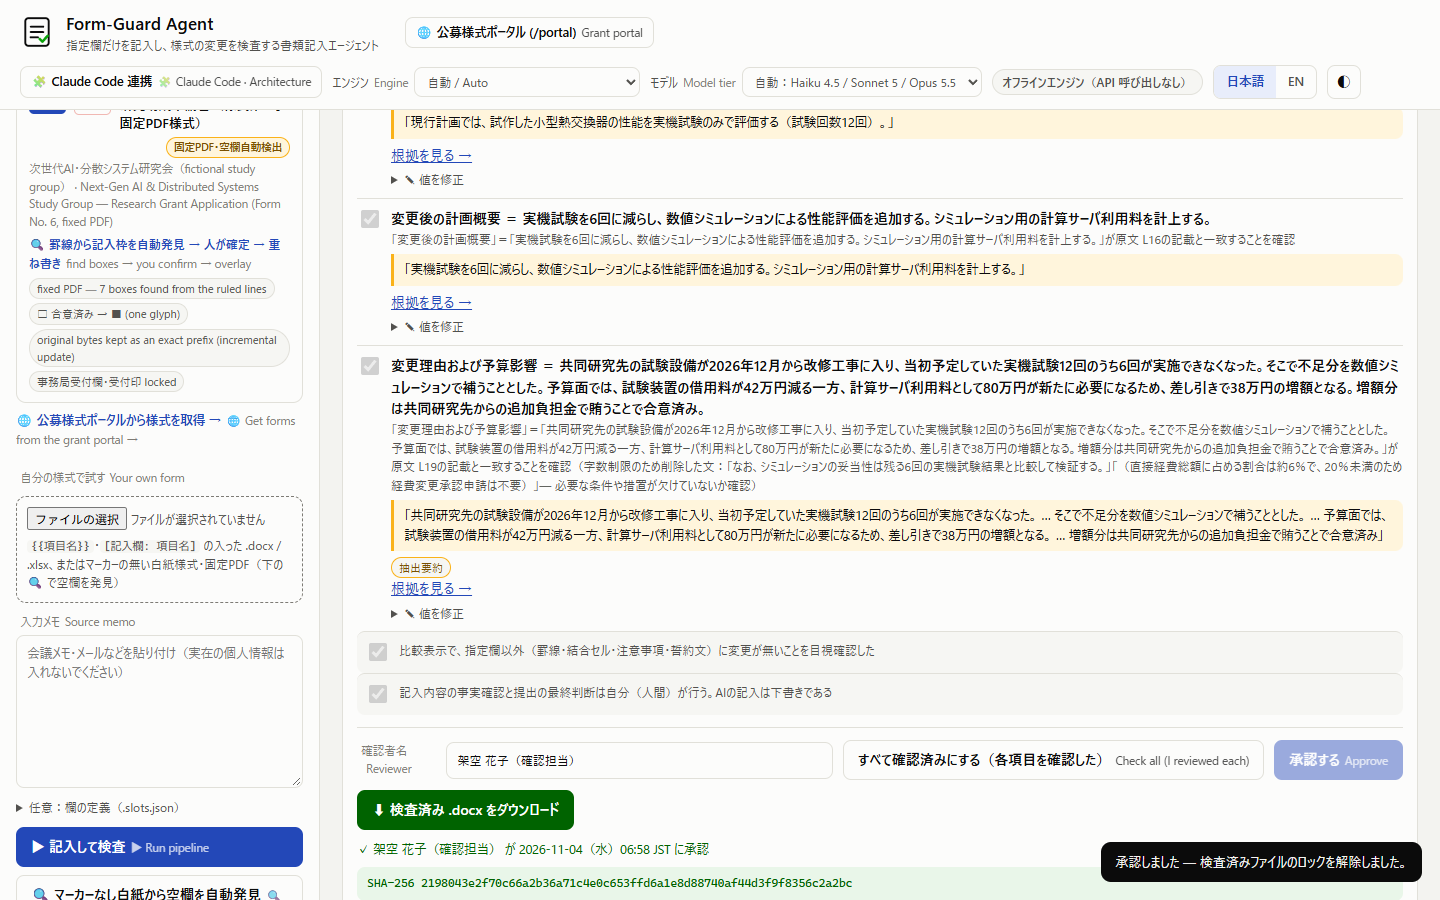
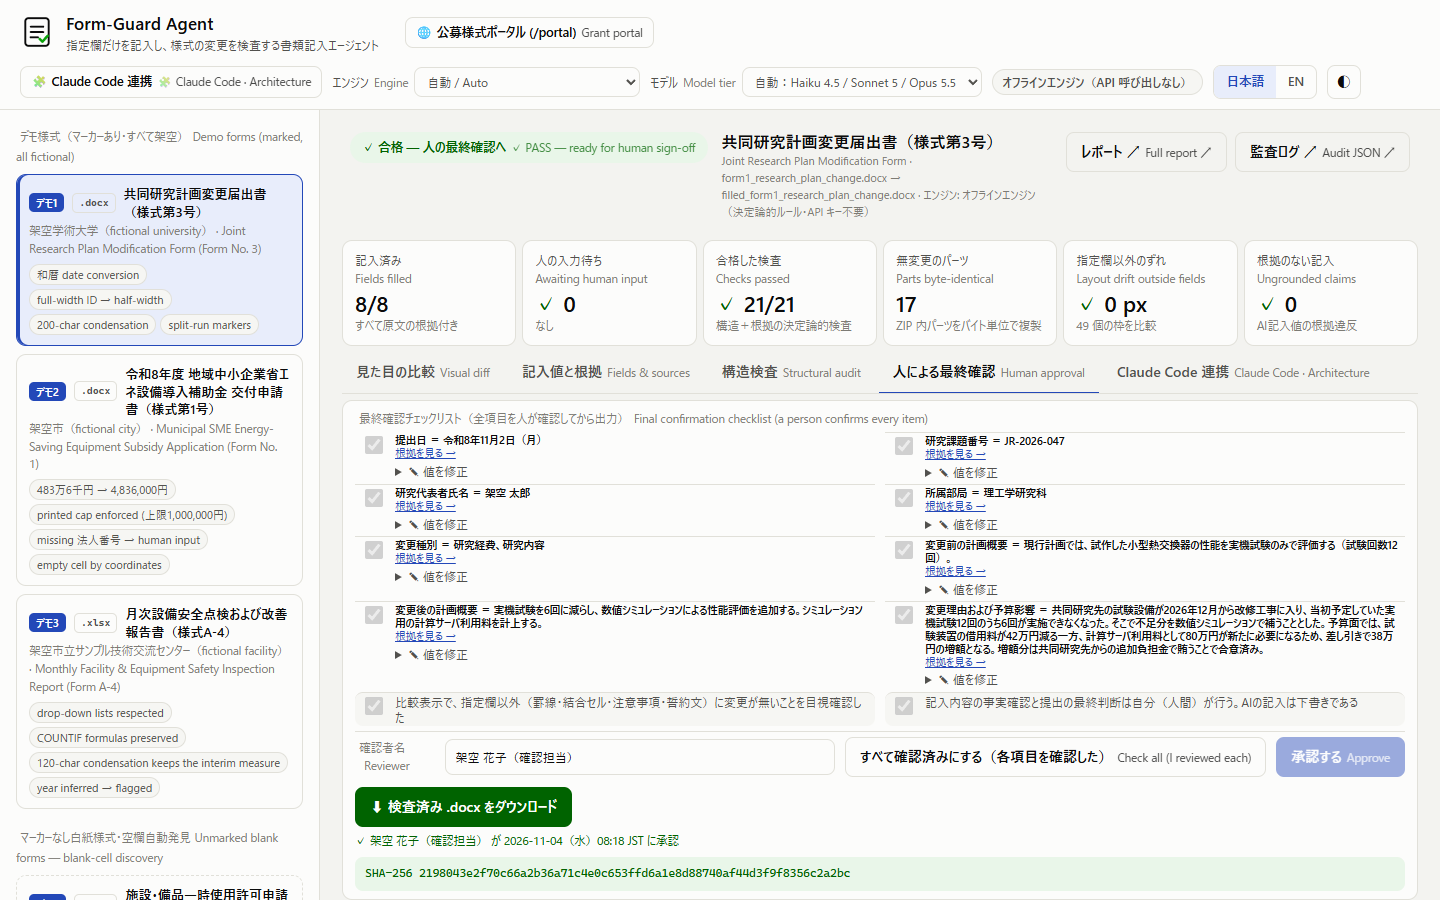
docs: apply /check R1 fixes for screenshots 04/07 links and video script

diff --git a/README.md b/README.md
@@ -15,8 +15,8 @@ Built for **Built with Claude: Japan 2026** (development started Monday, 2026-11
 |---|---|---|---|
 | **① インパクト（潜在的インパクト）**<br>Potential Impact | **30%** | 行政・大学・施設の指定様式（`.docx` / `.xlsx` / 固定 `.pdf`）で、罫線1本・結合セル1つの崩れによる差し戻し（押印・決裁の取り直しや再提出の手戻り）を防ぎ、非エンジニアでもWeb画面で各値の原文根拠を確かめてから承認できる（導入はPython 3.10以上・APIキー無しでも全工程が動く） | [トップ画面 `/` 上部バナー](http://127.0.0.1:8000/)（[画面例：視覚比較](docs/screenshots/01_visual_diff.png)） · [ハッカソン後の継続利用場面 ↓](#why-this-matters--who-keeps-using-it-after-the-hackathon) |
 | **② デモ（デモの完成度）**<br>Demo & Presentation | **25%** | 作り直し版（失敗再現データ・7項目不合格）との視覚比較、マーカーなし白紙からの4段階空欄自動発見、原文引用ハイライトと推測拒否（法人番号は人の入力待ち） | [`/#tour=1`（視覚比較）](http://127.0.0.1:8000/#tour=1)（[画面例：視覚比較](docs/screenshots/01_visual_diff.png)） · [`/#tour=2`（空欄自動発見）](http://127.0.0.1:8000/#tour=2)（[画面例：空欄発見](docs/screenshots/06_unmarked_discovery.png)） · [`/#tour=3`（原文根拠・推測拒否）](http://127.0.0.1:8000/#tour=3)（[画面例：原文根拠・デモ1](docs/screenshots/02_fields_and_sources.png)） · [3分動画台本](docs/DEMO_VIDEO_SCRIPT_JA.md) |
-| **③ Claudeの活用（Claude Code中心の開発・使い分け）**<br>Creative Use of Claude | **25%** | 欄ごとの3段モデル振り分け（Haiku 4.5 / Sonnet 5 / Opus 5.5・実API疎通確認済み）＋404フォールバック連鎖、2段フック（`PreToolUse` / `PostToolUse`）、`Edit`/`Write`ツール無しの4サブエージェント（うち3種はフック付き`Bash`を使用）、Skills 6種、追加のMCP SDK不要の5ツール MCP（本体の依存パッケージは必要）、公募ポータル [`/portal`](http://127.0.0.1:8000/portal) 連携 | [`/#tour=4`（「Claude Code 連携 · Architecture」タブ）](http://127.0.0.1:8000/#tour=4)（[画面例：Claude Code 連携※旧5デモ表示時](docs/screenshots/07_claude_code_architecture.png)） · [BUILT_WITH_CLAUDE_CODE.md](docs/BUILT_WITH_CLAUDE_CODE.md) |
-| **④ 深さと実行力（実装の深さと実行力）**<br>Depth & Execution | **20%** | 7区分21項目＋`VIS-01`（指定欄以外のずれ `0 px`）の決定論的検査、版（`revision`）と `SHA-256` に結び付いた人間承認ロック、実機 Word/Excel 16.0・実API 3階層ルーティング検証、272件の自動テスト（APIキー不要で再現可） | [`/#tour=5`（21項目構造証明＆人間承認ロック）](http://127.0.0.1:8000/#tour=5)（[画面例：21項目構造検査](docs/screenshots/03_structural_audit.png)・[画面例：人間承認ゲート](docs/screenshots/04_human_approval.png)） · [試行錯誤の記録](docs/BUILT_WITH_CLAUDE_CODE.md#5-iterating-with-claude-code) · [実機検証記録](#verified-on-real-machines-2026-11-03火) · [自動テスト (`tests/test_form_guard.py`)](tests/test_form_guard.py) |
+| **③ Claudeの活用（Claude Code中心の開発・使い分け）**<br>Creative Use of Claude | **25%** | 欄ごとの3段モデル振り分け（Haiku 4.5 / Sonnet 5 / Opus 5.5・実API疎通確認済み）＋404フォールバック連鎖、2段フック（`PreToolUse` / `PostToolUse`）、`Edit`/`Write`ツール無しの4サブエージェント（うち3種はフック付き`Bash`を使用）、Skills 6種、追加のMCP SDK不要の5ツール MCP（本体の依存パッケージは必要）、公募ポータル [`/portal`](http://127.0.0.1:8000/portal) 連携 | [`/#tour=4`（「Claude Code 連携 · Architecture」タブ）](http://127.0.0.1:8000/#tour=4)（[画面例：Claude Code 連携（6デモ・固定PDF対応・フック・MCP・サブエージェント）](docs/screenshots/07_claude_code_architecture.png)） · [BUILT_WITH_CLAUDE_CODE.md](docs/BUILT_WITH_CLAUDE_CODE.md) |
+| **④ 深さと実行力（実装の深さと実行力）**<br>Depth & Execution | **20%** | 7区分21項目＋`VIS-01`（指定欄以外のずれ `0 px`）の決定論的検査、版（`revision`）と `SHA-256` に結び付いた人間承認ロック、実機 Word/Excel 16.0・実API 3階層ルーティング検証、272件の自動テスト（APIキー不要で再現可） | [`/#tour=5`（21項目構造証明＆人間承認ロック）](http://127.0.0.1:8000/#tour=5)（[画面例：21項目構造検査](docs/screenshots/03_structural_audit.png)・[画面例：人間承認ゲート（デモ1承認完了・SHA-256受領印）](docs/screenshots/04_human_approval.png)） · [試行錯誤の記録](docs/BUILT_WITH_CLAUDE_CODE.md#5-iterating-with-claude-code) · [実機検証記録](#verified-on-real-machines-2026-11-03火) · [自動テスト (`tests/test_form_guard.py`)](tests/test_form_guard.py) |
 
 ---
 
